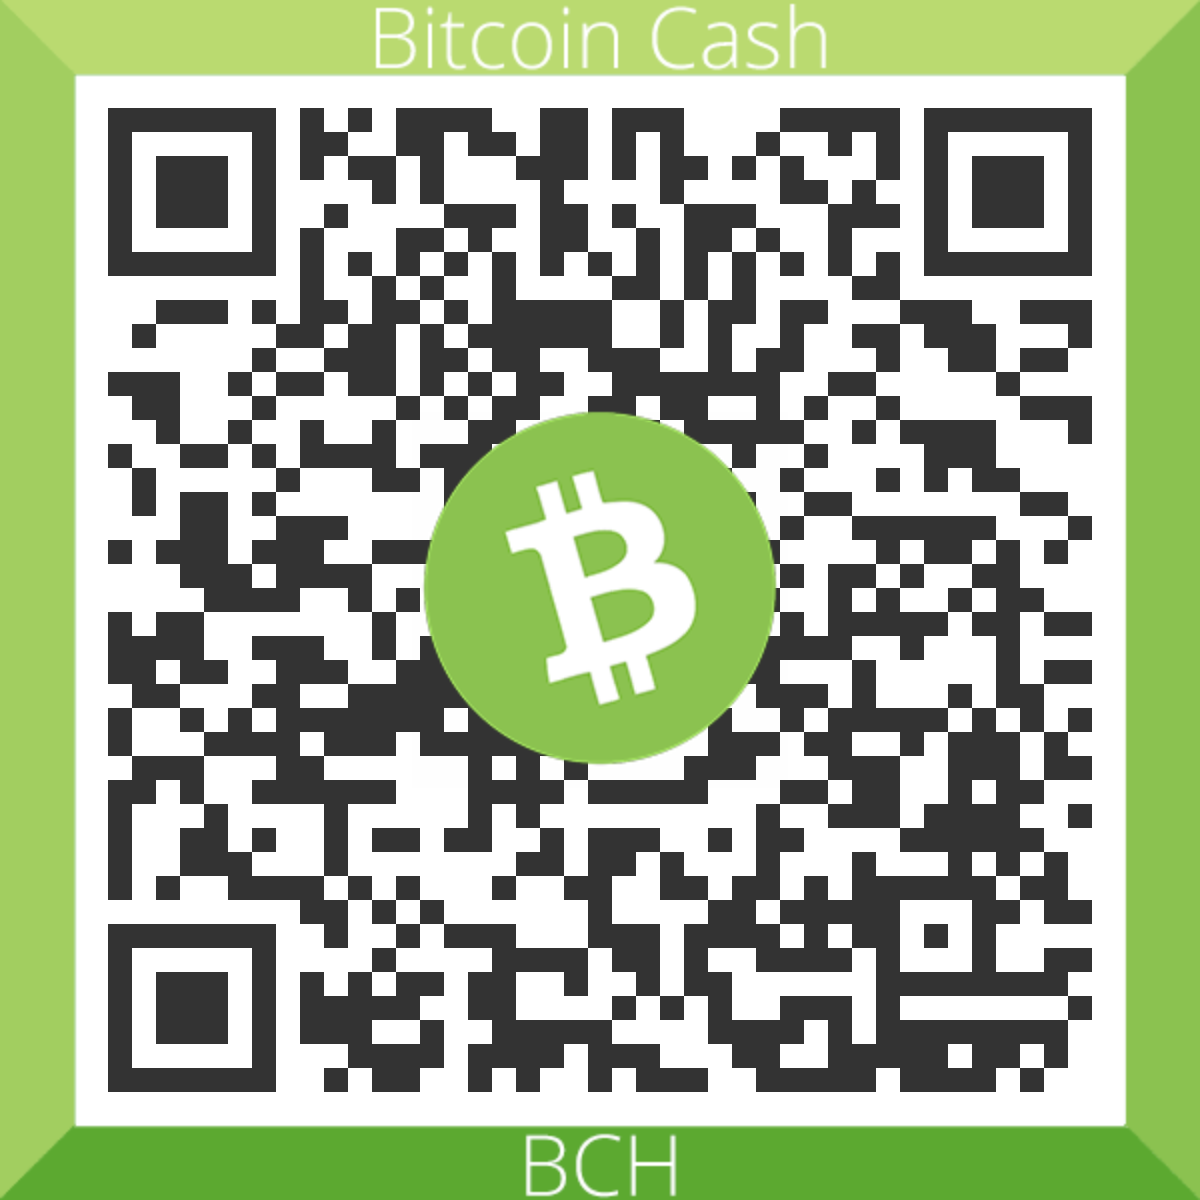
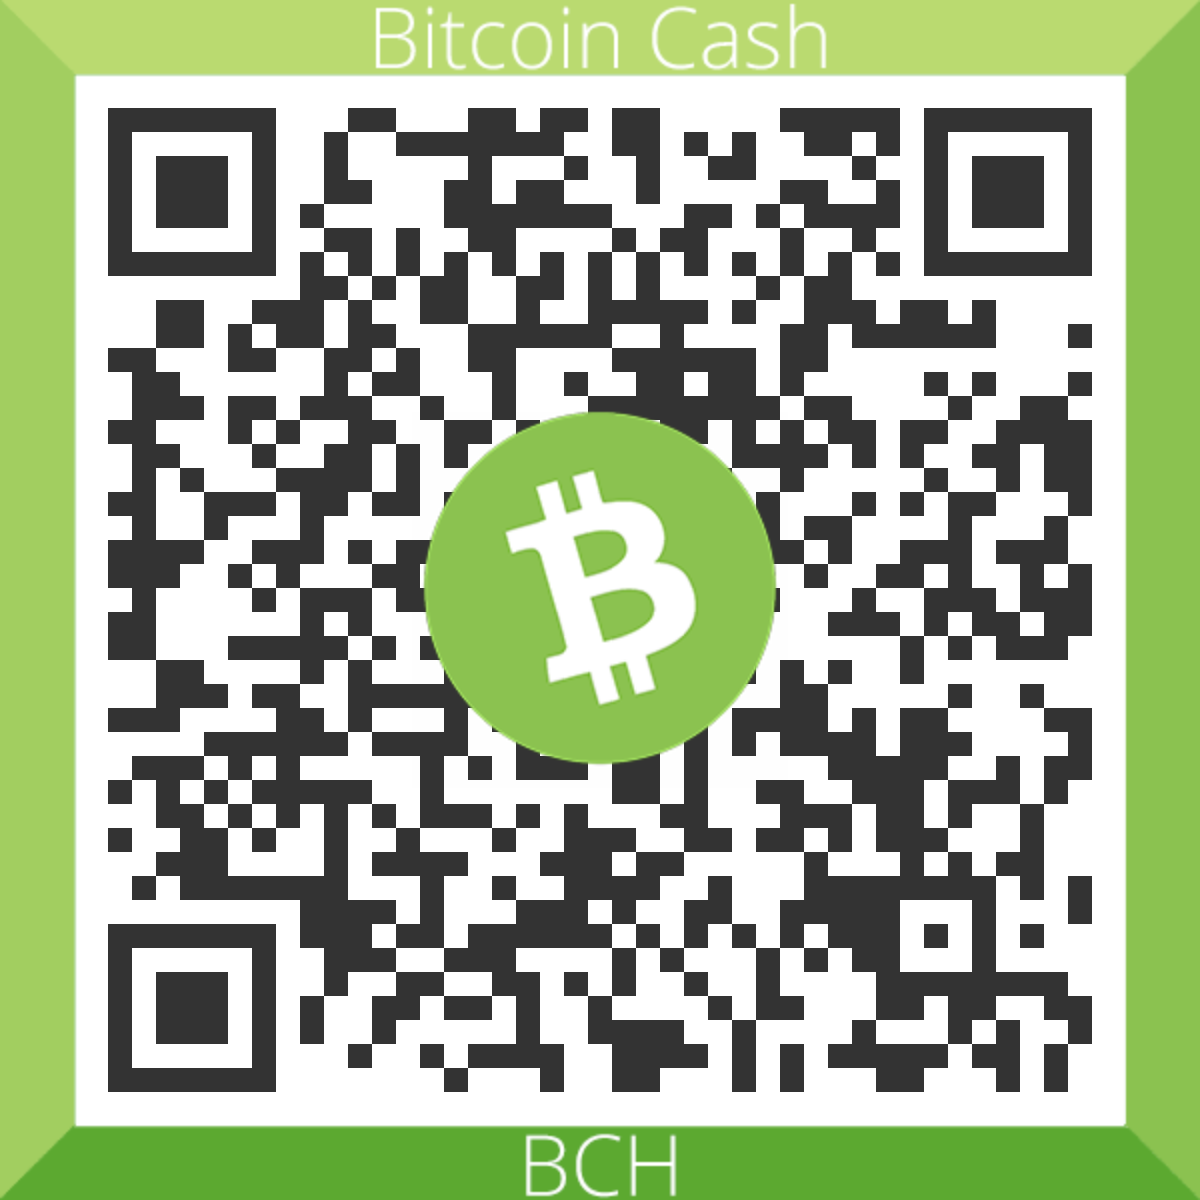
Update QR code.

Changed region(s): [[0.0925, 0.0925, 0.925, 0.925]]

diff --git a/docusaurus.config.js b/docusaurus.config.js
@@ -2,7 +2,7 @@ const lightCodeTheme = require("prism-react-renderer/themes/github");
 const darkCodeTheme = require("prism-react-renderer/themes/dracula");
 require("dotenv").config();
 
-const bchAddress = "qre0gmqljzvdraaj0qqt59qj3mg5lfnf95sj5azt9d";
+const bchAddress = "qr64nrjy93d867h20jw0yygp00k8gylf05hp0vuhlx";
 
 /** @type {import('@docusaurus/types').DocusaurusConfig} */
 module.exports = {
